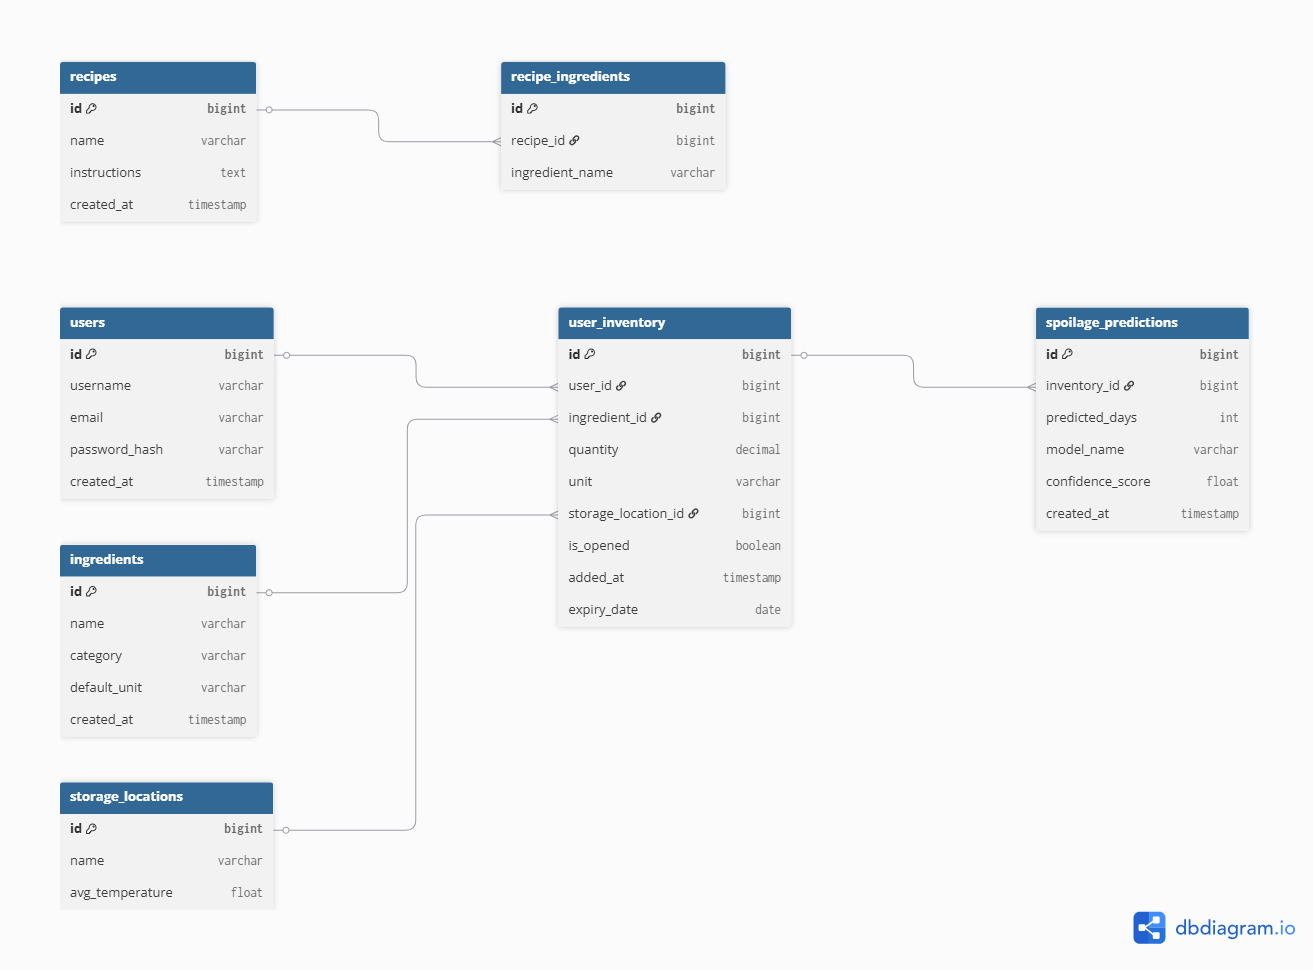
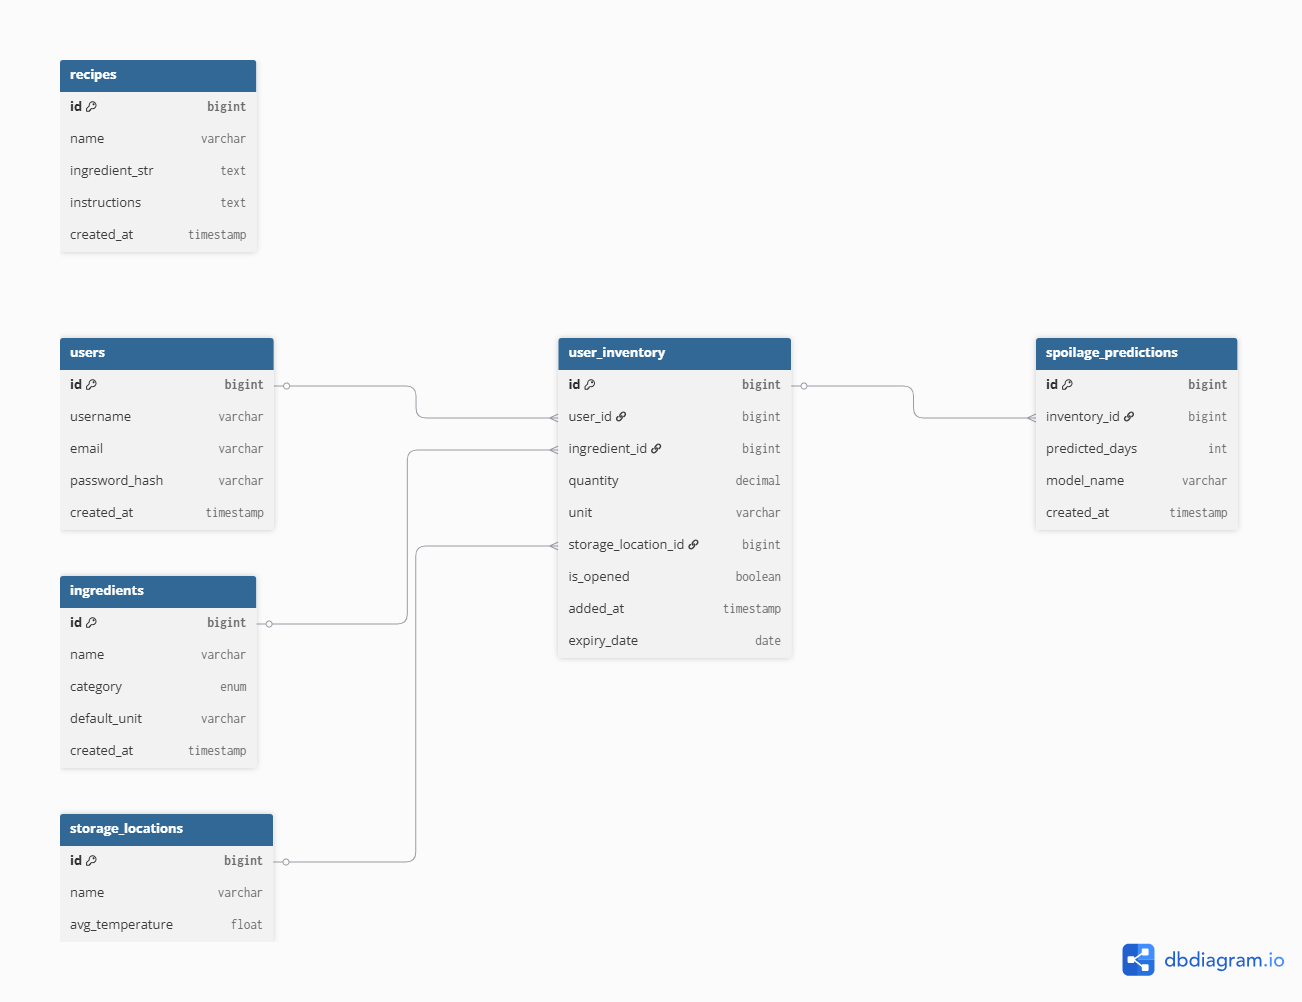
finalize database design and documentation
updated schema based on AI feedback
added constraints and validations
finalized README and ER diagram

diff --git a/database/README.md b/database/README.md
@@ -1,24 +1,128 @@
 # Database - Smart Kitchen Project
 
 ## Purpose
-This database stores:
-- User inventory (ingredients in kitchen)
-- Recipes and their ingredients
-- Spoilage prediction results (ML)
 
-## Files
-- schema.sql → database structure
-- seed.sql → sample data
-- er-diagram.png → visual schema
+This database supports a smart kitchen / inventory management system.
+
+The system allows users to:
+- Manage ingredients in their kitchen inventory
+- Store recipe data
+- Receive recipe recommendations based on available ingredients
+- Store spoilage prediction results generated by the ML model
+
+---
+
+## Database Technology
+
+- **Engine:** MySQL
+- **Database name:** `smart_kitchen_db`
+- **Character set:** utf8mb4
+- **Collation:** utf8mb4_unicode_ci
+
+---
 
 ## Tables
-- users
-- ingredients
-- storage_locations
-- user_inventory
-- recipes
-- recipe_ingredients
-- spoilage_predictions
 
-## Usage
-Run schema.sql first, then seed.sql.
+### `users`
+Stores registered users. Email is unique; only the password hash is stored.
+
+| Column | Type | Description |
+|---|---|---|
+| id | BIGINT | Primary key |
+| username | VARCHAR(100) | Username |
+| email | VARCHAR(150) | Unique email address |
+| password_hash | VARCHAR(255) | Hashed password |
+| created_at | TIMESTAMP | Record creation time |
+
+---
+
+### `ingredients`
+Stores all ingredients used in the system. Each ingredient belongs to one of 7 categories, which is used as a feature in the ML spoilage model.
+
+| Column | Type | Description |
+|---|---|---|
+| id | BIGINT | Primary key |
+| name | VARCHAR(100) | Unique ingredient name |
+| category | ENUM | One of: `Liquid_Dairy`, `Fermented_Dairy`, `Hard_Cheese`, `Meat_Poultry`, `Vegetables`, `Fruits`, `Cooked_Meals` |
+| default_unit | VARCHAR(30) | Default unit of measurement |
+| created_at | TIMESTAMP | Record creation time |
+
+---
+
+### `storage_locations`
+Defines physical storage locations (e.g. fridge, freezer). `avg_temperature` is used as an input feature for the ML model.
+
+| Column | Type | Description |
+|---|---|---|
+| id | BIGINT | Primary key |
+| name | VARCHAR(100) | Unique location name |
+| avg_temperature | FLOAT | Average temperature in °C |
+
+---
+
+### `user_inventory`
+Stores each user's current inventory items. Tracks each user's current ingredients, quantities, storage location, and expiry dates.
+
+| Column | Type | Description |
+|---|---|---|
+| id | BIGINT | Primary key |
+| user_id | BIGINT | FK → users (CASCADE DELETE) |
+| ingredient_id | BIGINT | FK → ingredients (CASCADE DELETE) |
+| quantity | DECIMAL(10,2) | Amount — must be > 0 (CHECK constraint) |
+| unit | VARCHAR(30) | Unit of measurement |
+| storage_location_id | BIGINT | FK → storage_locations (SET NULL on delete) |
+| is_opened | BOOLEAN | Whether the product has been opened — affects spoilage rate |
+| added_at | TIMESTAMP | Time added to inventory |
+| expiry_date | DATE | Expiry date (nullable) |
+
+---
+
+### `recipes`
+Stores recipe data. `ingredient_str` is a comma-separated free-text field used for ingredient-based recipe matching.
+
+| Column | Type | Description |
+|---|---|---|
+| id | BIGINT | Primary key |
+| name | VARCHAR(150) | Recipe name |
+| ingredient_str | TEXT | Free-text ingredient list (comma-separated) |
+| instructions | TEXT | Cooking instructions |
+| created_at | TIMESTAMP | Record creation time |
+
+> Recipes are not tied to any user — they form a global catalog accessible to all users.
+
+---
+
+### `spoilage_predictions`
+Stores ML model output for each inventory item. `predicted_days` must be >= 0 (CHECK constraint).
+
+| Column | Type | Description |
+|---|---|---|
+| id | BIGINT | Primary key |
+| inventory_id | BIGINT | FK → user_inventory (CASCADE DELETE) |
+| predicted_days | INT | Estimated remaining shelf life in days |
+| model_name | VARCHAR(100) | Name of the ML model used (e.g. `xgboost_v1`) |
+| created_at | TIMESTAMP | Prediction creation time |
+
+---
+
+## Relationships
+
+```
+users             1 ──< user_inventory
+ingredients       1 ──< user_inventory
+storage_locations 1 ──< user_inventory  (nullable)
+user_inventory    1 ──< spoilage_predictions
+recipes           (standalone — no FK relations)
+```
+
+---
+
+## Indexes
+
+| Index | Column | Purpose |
+|---|---|---|
+| idx_inventory_user | user_inventory.user_id | Fast inventory lookup by user |
+| idx_inventory_ingredient | user_inventory.ingredient_id | Fast inventory lookup by ingredient |
+| idx_inventory_storage | user_inventory.storage_location_id | Fast inventory lookup by location |
+| idx_ingredients_category | ingredients.category | Filter ingredients by category |
+| idx_predictions_inventory | spoilage_predictions.inventory_id | Fast prediction lookup by inventory item |
